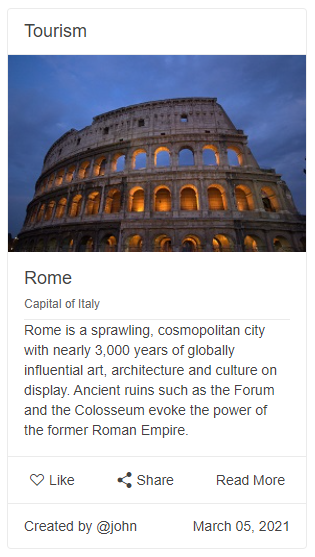
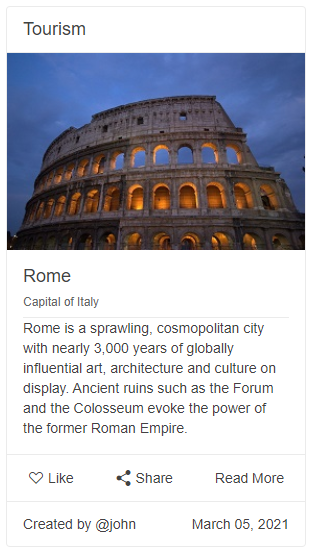
docs(card):changes in the structure and articles as discussed

diff --git a/components/card/building-blocks.md b/components/card/building-blocks.md
@@ -1,0 +1,171 @@
+---
+title: Building Blocks
+page_title: Card Building Blocks
+description: Building Blocks of the Card for Blazor.
+slug: card-building-blocks
+tags: telerik,blazor,card,building,blocks
+published: True
+position: 2
+---
+
+
+The Card component supports a variety of template-based components used as building blocks
+
+
+* [`CardHeader`](#cardheader) - renders header area, useful for title, subtitle, etc.
+
+* [`CardBody`](#cardbody) - renders the body of the card with added paddings.
+
+* [`CardFooter`](#cardfooter) -  renders footer area separated from the content through separator
+
+* [`CardImage`](#cardimage) - renders card image to fill the size of the card. Read more in the [CardImage article]({%slug card-image%}).
+
+* [`CardActions`](#cardactions) - renders dedicated area for actions. You could place any action buttons inside and style them with the predefined orientation and layout of the buttons. Read more in the [Actions article]({%slug card-actions%}).
+
+* [`CardSeparator`](#cardseparator) - renders a horizontal line. It could be used it as a standalone building block, or inside any of the above blocks. When used as nested component, it will be rendered in accordance to any margin applied to the content.
+
+* [`CardTitle`](#cardtitle) - renders div title with default theme styling.
+
+* [`CardSubTitle`](#cardsubtitle) - renders div title with default theme styling as sub title.
+
+
+## CardHeader
+
+![Card Header](images/card-header-example.png)
+
+````CSHTML
+@* Card Header *@
+
+<TelerikCard Width="200px">
+    <CardHeader>
+        <strong>This is the Card Header.</strong>
+    </CardHeader>
+    <CardBody>
+        <p>Some quick example text to build on the card title and make up the bulk of the card's content.</p>
+    </CardBody>       
+</TelerikCard>
+````
+
+
+
+## CardBody
+
+![Card Body](images/card-body-example.png)
+
+````CSTHML
+@* Card Body *@
+
+<TelerikCard Width="200px">
+    <CardBody>        
+        <p><strong>This is the Card Body.</strong> Some quick example text to build on the card title and make up the bulk of the card's content.</p>
+    </CardBody>       
+</TelerikCard>
+````
+
+
+## CardFooter
+
+![Card Footer](images/card-footer-example.png)
+
+````CSHTML
+@* Card Footer *@
+
+<TelerikCard Width="200px">
+    <CardBody>        
+        <p> Some quick example text to build on the card title and make up the bulk of the card's content.</p>
+    </CardBody>  
+    <CardFooter>
+        <strong>This is the Card Footer.</strong>
+    </CardFooter>
+</TelerikCard>
+````
+
+## CardImage
+
+
+
+## CardActions
+
+![Card Actions](images/card-actions-example.png)
+
+````CSHTML
+@* Card Actions *@
+
+<TelerikCard Width="200px">
+    <CardBody>        
+        <p> Some quick example text to build on the card title and make up the bulk of the card's content.</p>
+    </CardBody>  
+    <CardSeparator></CardSeparator>
+    <CardActions Layout="CardActionsLayout.Center">
+        <TelerikButton Class="k-flat">Action 1</TelerikButton>        
+        <TelerikButton Class="k-flat">Action 2</TelerikButton>       
+    </CardActions>
+</TelerikCard>
+````
+
+## CardSeparator
+
+An example of `CardSeparator` used between Card elements or nested inside an element. Read more in the [CardSeparator article]({%slug %}). The result from the snippet below.
+
+![Card Separator](images/card-separator-example.png)
+
+````CSHTML
+@* Card Separator *@
+
+<TelerikCard Width="200px">
+    <CardBody>        
+        <p> Some quick example text to build on the card title and make up the bulk of the card's content.</p>
+        <CardSeparator></CardSeparator>
+        <p>Some other text in the Card Body after the separator.</p>
+    </CardBody>  
+    <CardSeparator></CardSeparator>
+    <CardActions Layout="CardActionsLayout.Center">
+        <TelerikButton Class="k-flat">Action 1</TelerikButton>
+        <CardSeparator Orientation="CardOrientation.Vertical"></CardSeparator>
+        <TelerikButton Class="k-flat">Action 2</TelerikButton>       
+    </CardActions>
+</TelerikCard>
+````
+
+## CardTitle
+
+![Card Footer](images/card-title-example.png)
+
+````CSHTML
+@* Card Title *@
+
+<TelerikCard Width="200px">
+    <CardTitle>This is standalone Title </CardTitle>    
+    <CardHeader>
+        <CardTitle>This is Title in the Card Header</CardTitle>
+    </CardHeader>
+    <CardBody>
+        <CardTitle>This is Title in the Card Body</CardTitle>
+        <p> Some quick example text to build on the card title and make up the bulk of the card's content.</p>        
+    </CardBody>  
+</TelerikCard>
+````
+
+
+## CardSubTitle
+
+![Card Footer](images/card-subtitle-example.png)
+
+````CSHTML
+@* Card Subtitle *@
+
+<TelerikCard Width="200px">       
+    <CardHeader>
+        <CardTitle>This is Title in the Card Header</CardTitle>
+        <CardSubTitle>This is Subtitle in the Card Header along with Title</CardSubTitle>
+    </CardHeader>
+    <CardBody>
+        <CardSubTitle><strong>Just Subtitle in the Card Body</strong></CardSubTitle>        
+        <p> Some quick example text to build on the card title and make up the bulk of the card's content.</p>
+    </CardBody>  
+</TelerikCard>
+````
+
+## See Also
+
+* [Live Demo: Card Building Blocks](https://demos.telerik.com/blazor-ui/card/building-blocks)

diff --git a/components/card/overview.md b/components/card/overview.md
@@ -13,50 +13,24 @@ position: 0
 
 The Card for Blazor is a component that combines text, visual content and actions about a single subject. It quickly grabs the user’s attention with its clean layout, consisting of a title, usually an image, some text as the body and perhaps a footer. You can use it to easily organize content when building catalogues, dashboards, blogs, e-shops, etc. It has dedicated areas for its building blocks and that provides various ways of commponent usage.
 
-#### To use a Telerik Card for Blazor
+In this article:
+   * [Basics](#basics) 
+   * [Example](#example)
+   * [Features](#features)
+
+## Basics
+
+To use a Telerik Card for Blazor:
 
 1. add the `TelerikCard` tag
 1. add the desired [Card Building Blocks](#card-building-blocks)
 
 
-## Card Building Blocks
+## Example 
 
-The Card component supports the following template-based components used as building blocks:
+The below snippet demontrates the setup of a Card component with all building blocks implemented.
 
-* `CardHeader` - renders header area, useful for title, subtitle, etc.
-
-* `CardImage` - renders card image to fill the size of the card. Read more in the [CardImage article]({%slug card-image%}).
-
-* `CardBody` - renders the body of the card with added paddings.
-
-* `CardFooter` -  renders footer area separated from the content through separator
-
-* `CardActions` - renders dedicated area for actions. You could place any action buttons inside and style them with the predefined orientation and layout of the buttons. Read more in the [Actions article]({%slug card-actions%}).
-
-* `CardSeparator` - renders a horizontal line. It could be used it as a standalone building block, or inside any of the above blocks. When used as nested component, it will be rendered in accordance to any margin applied to the content.
-
-* `CardTitle` - renders div title with default theme styling.
-
-* `CardSubTitle` - renders div title with default theme styling as sub title.
-
-
-## Features
-
-The Card provides the following features:
-
-* `Width` - `string` - defines width of the component
-
-* `Class` - `string` - the CSS class that will be rendered on the main wrapping element of the Card.
-
-* `Orientation` - `CardOrientation` - defines the orientation of the card. Takese a member of the `Telerik.Blazor.CardOrientation` enum:
-    * `Horizontal`
-    * `Vertical`
-
-* `ThemeColor` - `string` - defines the appearance of the component. We support predefined theme colors such as info, error, success (members of the `Telerik.Blazor.ThemeColors` class).
-
-* `ChildContent` - `RenderFragment` - defines the child content of the component.
-
->caption Setup of a Card component with all building blocks implemented. The resut from the snippet below.
+>caption The result from the snippet.
 
 ![Card component](images/overview-card-example.png)
 
@@ -65,9 +39,9 @@ The Card provides the following features:
 
 <TelerikCard Width="300px">
     <CardHeader>
-        <CardTitle>Tourism</CardTitle>        
+        <CardTitle>Tourism</CardTitle>
     </CardHeader>
-    <CardImage Src="https://demos.telerik.com/blazor-ui/images/cards/places/rome.jpg"></CardImage>
+    <CardImage Src="https://docs.telerik.com/blazor-ui/components/card/images/rome.jpg"></CardImage>
     <CardBody>
         <CardTitle>Rome</CardTitle>
         <CardSubTitle>Capital of Italy</CardSubTitle>
@@ -83,22 +57,28 @@ The Card provides the following features:
         <TelerikButton Class="k-flat" Icon="share">Share</TelerikButton>
         <TelerikButton Class="k-flat">Read More</TelerikButton>
     </CardActions>
-    <CardFooter Class="k-hbox justify-space-between">
-        <span>Created by @@john</span>
-        <span>March 05, 2021</span>
+    <CardFooter>
+        <span style="float:left">Created by @@john</span>
+        <span style="float:right">March 05, 2021</span>
     </CardFooter>
 </TelerikCard>
-
-<style>
-    .justify-space-between {
-        justify-content: space-between;
-    }
-</style>
 ````
+
+## Features
+
+The Card provides the following features:
+
+* `Width` - `string` - defines width of the component
+
+* `Class` - `string` - the CSS class that will be rendered on the main wrapping element of the Card.
+
+* `Orientation` - `CardOrientation` - defines the orientation of the card. Takes a member of the `Telerik.Blazor.CardOrientation` enum (`Horizontal` or `Vertical`). Read more in the [Card Orientation article]({%slug card-orientation%}).
+
+* `ThemeColor` - `string` - defines the appearance of the component. We support predefined theme colors such as info, error, success (members of the `Telerik.Blazor.ThemeColors` class). Test changing the Card theme colors in our [live demo](https://demos.telerik.com/blazor-ui/card/appearance).
+
+* `ChildContent` - `RenderFragment` - defines the child content of the component. All possible building blocks can be directly used as a `ChildContent` of the Card.
 
 
 ## See Also
 
   * [Live Demo: Card](https://demos.telerik.com/blazor-ui/card/overview)
-  * [Live Demo: Card Building Blocks](https://demos.telerik.com/blazor-ui/card/building-blocks)
-  * [Live Demo: Card Appearance](https://demos.telerik.com/blazor-ui/card/appearance)

diff --git a/components/card/card-separator.md b/components/card/card-separator.md
@@ -1,0 +1,11 @@
+---
+title: Card Separator
+page_title: Card Separator
+description: Separator element of the Card for Blazor.
+slug: card-separator
+tags: telerik,blazor,card,separator
+published: True
+position: 3
+---
+
+# Card Separator

diff --git a/components/card/orientation.md b/components/card/orientation.md
@@ -70,4 +70,4 @@ The result from the snippet below.
 
 ## See Also
 
-  * [Live Demo: Card](https://demos.telerik.com/blazor-ui/card/orientation)
+  * [Live Demo: Card Orientation](https://demos.telerik.com/blazor-ui/card/orientation)
